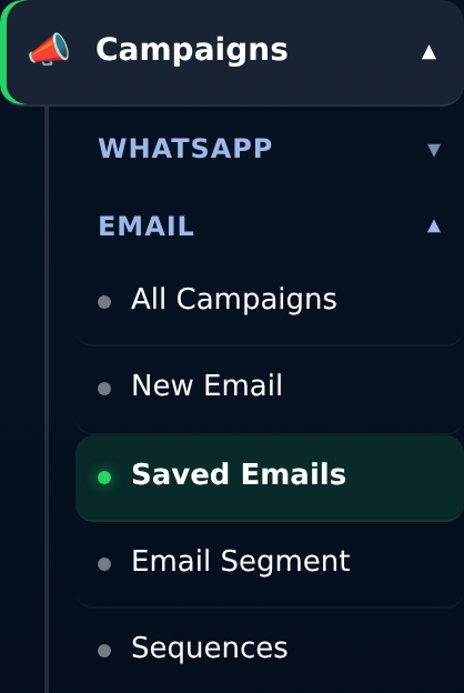
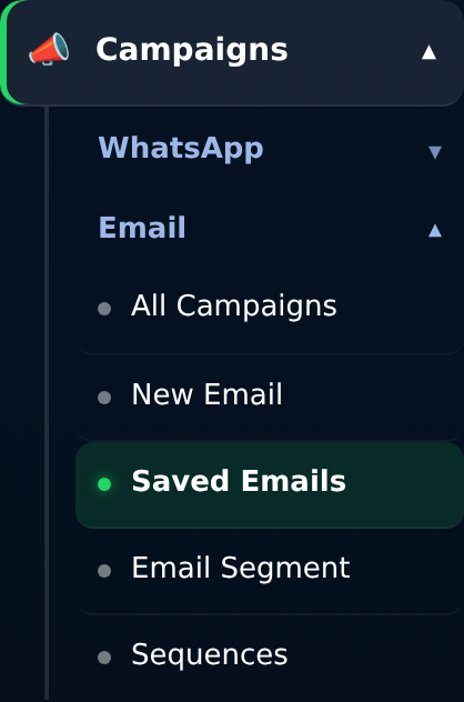
Cart Recovery under Ecommerce; sub-menu titles in normal writing
- Side menu: Cart Recovery moves from its own menu to a sub-menu under
  Ecommerce, with its own arrow (WooCommerce stores only, as before;
  same ticks and padlock). Ecommerce opens on the Cart Recovery pages.
- Sub-menu titles (WhatsApp, Email, Cart Recovery) are no longer in
  capitals. Email guide menu picture retaken.

diff --git a/api-key-manager/templates/portal/base.html b/api-key-manager/templates/portal/base.html
@@ -121,7 +121,7 @@
     .sb-sub.sb-sub-tall.open{max-height:1200px}
     .sb-subgroup:not(:has(.sb-sub2 a)){display:none}
     .sb-subtoggle{display:flex; align-items:center; justify-content:space-between; gap:8px; width:100%;
-                  font:inherit; font-size:12px; font-weight:700; letter-spacing:.04em; text-transform:uppercase;
+                  font:inherit; font-size:13px; font-weight:700;
                   color:rgba(3,12,24,0.60); background:none; border:0; cursor:pointer;
                   padding:10px 10px 6px; border-radius:8px; text-align:left}
     .sb-subtoggle:hover{background:rgba(3,12,24,0.04); color:var(--ink)}
@@ -1095,7 +1095,11 @@
         'portal.data_sources', 'portal.data_source_upload', 'portal.data_source_map',
         'portal.data_source_sync', 'portal.data_source_delete', 'portal.data_source_google_connect',
         'portal.data_source_google_callback', 'portal.data_source_google_setup',
-        'portal.wa_discount_settings') %}
+        'portal.wa_discount_settings',
+        'portal.cart_recovery_dashboard', 'portal.cart_recovery_save_settings',
+        'portal.cart_recovery_email_template') %}
+    {% set _cr_group = request.endpoint in ('portal.cart_recovery_dashboard', 'portal.cart_recovery_save_settings',
+                                             'portal.cart_recovery_email_template') %}
     <div class="sb-group">
       <div class="sb-group-toggle {% if _commerce_group %}open{% endif %}"
            data-tour="nav-ecommerce" onclick="sbToggle(this)">
@@ -1104,7 +1108,7 @@
         </span>
         <span class="sb-arrow">▾</span>
       </div>
-      <div class="sb-sub {% if _commerce_group %}open{% endif %}">
+      <div class="sb-sub sb-sub-tall {% if _commerce_group %}open{% endif %}">
         {% if staff_can_open('portal.products') %}
         <a href="{{ url_for('portal.products') }}"
            class="{% if request.endpoint in ('portal.products','portal.product_add','portal.product_edit') %}active{% endif %}">
@@ -1157,6 +1161,33 @@
           Discount Settings
           {% if 'ecom.discount_settings_view' not in granted_features %}<span class="sb-lock" title="Upgrade to unlock">🔒</span>{% endif %}
         </a>
+        {% endif %}
+        {# Cart Recovery (2026-10-24): moved here from its own menu, as a sub-menu
+           with its own arrow like Campaigns › WhatsApp / Email. WooCommerce stores only. #}
+        {% if _has_woocommerce %}
+        <div class="sb-subgroup">
+          <button type="button" class="sb-subtoggle {% if _cr_group %}open{% endif %}"
+                  onclick="sbSubToggle(this)" aria-expanded="{{ 'true' if _cr_group else 'false' }}">
+            <span>Cart Recovery{% if 'woo.cart_recovery' not in granted_features %}<span class="sb-lock" title="Upgrade to unlock">🔒</span>{% endif %}</span>
+            <span class="sb-arrow" aria-hidden="true">▾</span>
+          </button>
+          <div class="sb-sub2 {% if _cr_group %}open{% endif %}">
+          {% if staff_can_open('portal.cart_recovery_dashboard') %}
+          <a href="{{ url_for('portal.cart_recovery_dashboard') }}"
+             class="{% if request.endpoint == 'portal.cart_recovery_dashboard' %}active{% endif %}">
+            Overview &amp; Settings
+            {% if 'woo.cart_recovery_view' not in granted_features %}<span class="sb-lock" title="Upgrade to unlock">🔒</span>{% endif %}
+          </a>
+          {% endif %}
+          {% if staff_can_open('portal.cart_recovery_email_template') %}
+          <a href="{{ url_for('portal.cart_recovery_email_template') }}"
+             class="{% if request.endpoint == 'portal.cart_recovery_email_template' %}active{% endif %}">
+            Email Templates
+            {% if 'woo.cart_recovery_templates_view' not in granted_features %}<span class="sb-lock" title="Upgrade to unlock">🔒</span>{% endif %}
+          </a>
+          {% endif %}
+          </div>
+        </div>
         {% endif %}
       </div>
     </div>
@@ -1296,37 +1327,6 @@
 
     {# ── WooCommerce-only items — hidden for WhatsApp-only tenants ── #}
     {% if _has_woocommerce %}
-
-    <!-- ── Cart Recovery group ── -->
-    {% set _cr_group = request.endpoint in ('portal.cart_recovery_dashboard',
-                                             'portal.cart_recovery_save_settings',
-                                             'portal.cart_recovery_email_template') %}
-    <div class="sb-group">
-      <div class="sb-group-toggle {% if _cr_group %}open{% endif %}"
-           onclick="sbToggle(this)">
-        <span class="sb-gtitle">
-          <span class="sb-icon">🛒</span> Cart Recovery
-          {% if 'woo.cart_recovery' not in granted_features %}<span class="sb-lock" title="Upgrade to unlock">🔒</span>{% endif %}
-        </span>
-        <span class="sb-arrow">▾</span>
-      </div>
-      <div class="sb-sub {% if _cr_group %}open{% endif %}">
-        {% if staff_can_open('portal.cart_recovery_dashboard') %}
-        <a href="{{ url_for('portal.cart_recovery_dashboard') }}"
-           class="{% if request.endpoint == 'portal.cart_recovery_dashboard' %}active{% endif %}">
-          Overview &amp; Settings
-          {% if 'woo.cart_recovery_view' not in granted_features %}<span class="sb-lock" title="Upgrade to unlock">🔒</span>{% endif %}
-        </a>
-        {% endif %}
-        {% if staff_can_open('portal.cart_recovery_email_template') %}
-        <a href="{{ url_for('portal.cart_recovery_email_template') }}"
-           class="{% if request.endpoint == 'portal.cart_recovery_email_template' %}active{% endif %}">
-          Email Templates
-          {% if 'woo.cart_recovery_templates_view' not in granted_features %}<span class="sb-lock" title="Upgrade to unlock">🔒</span>{% endif %}
-        </a>
-        {% endif %}
-      </div>
-    </div>
 
     <!-- Analytics -->
     {% if staff_can_open('portal.analytics') %}
